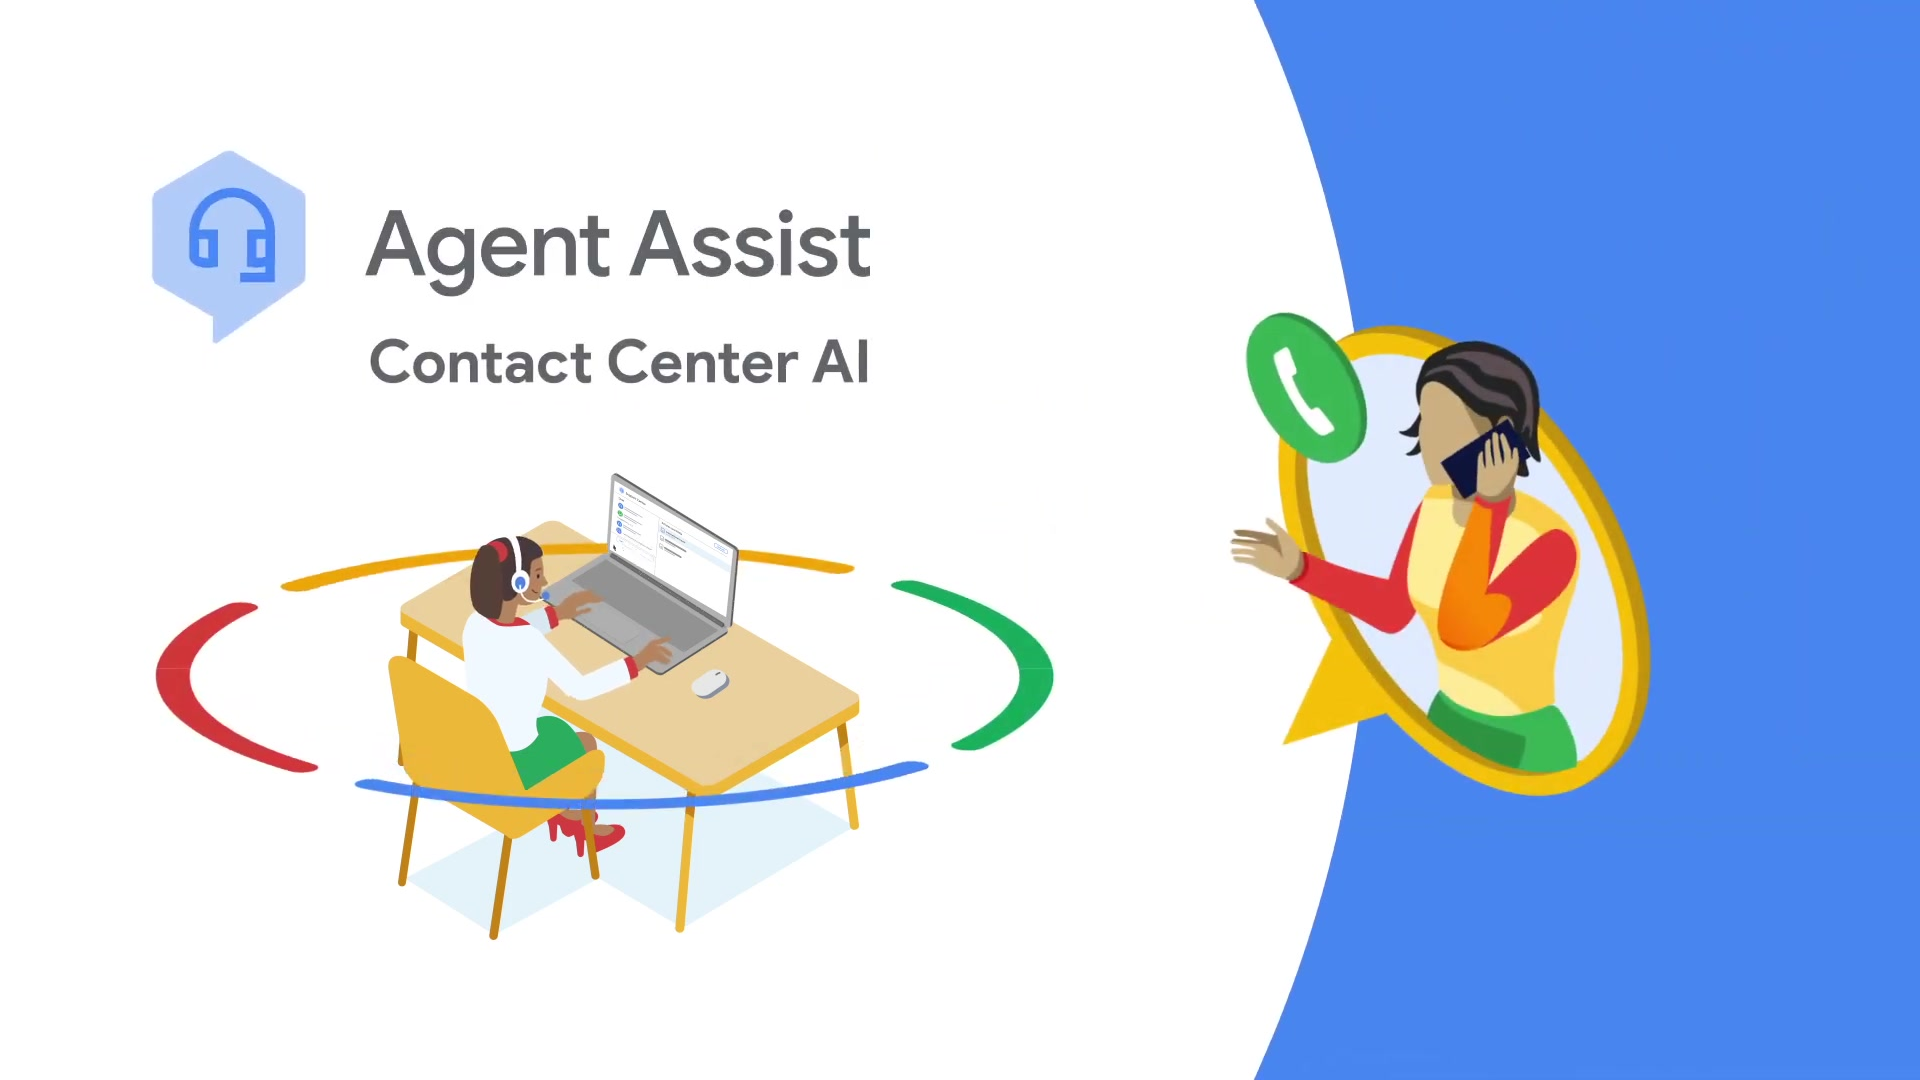
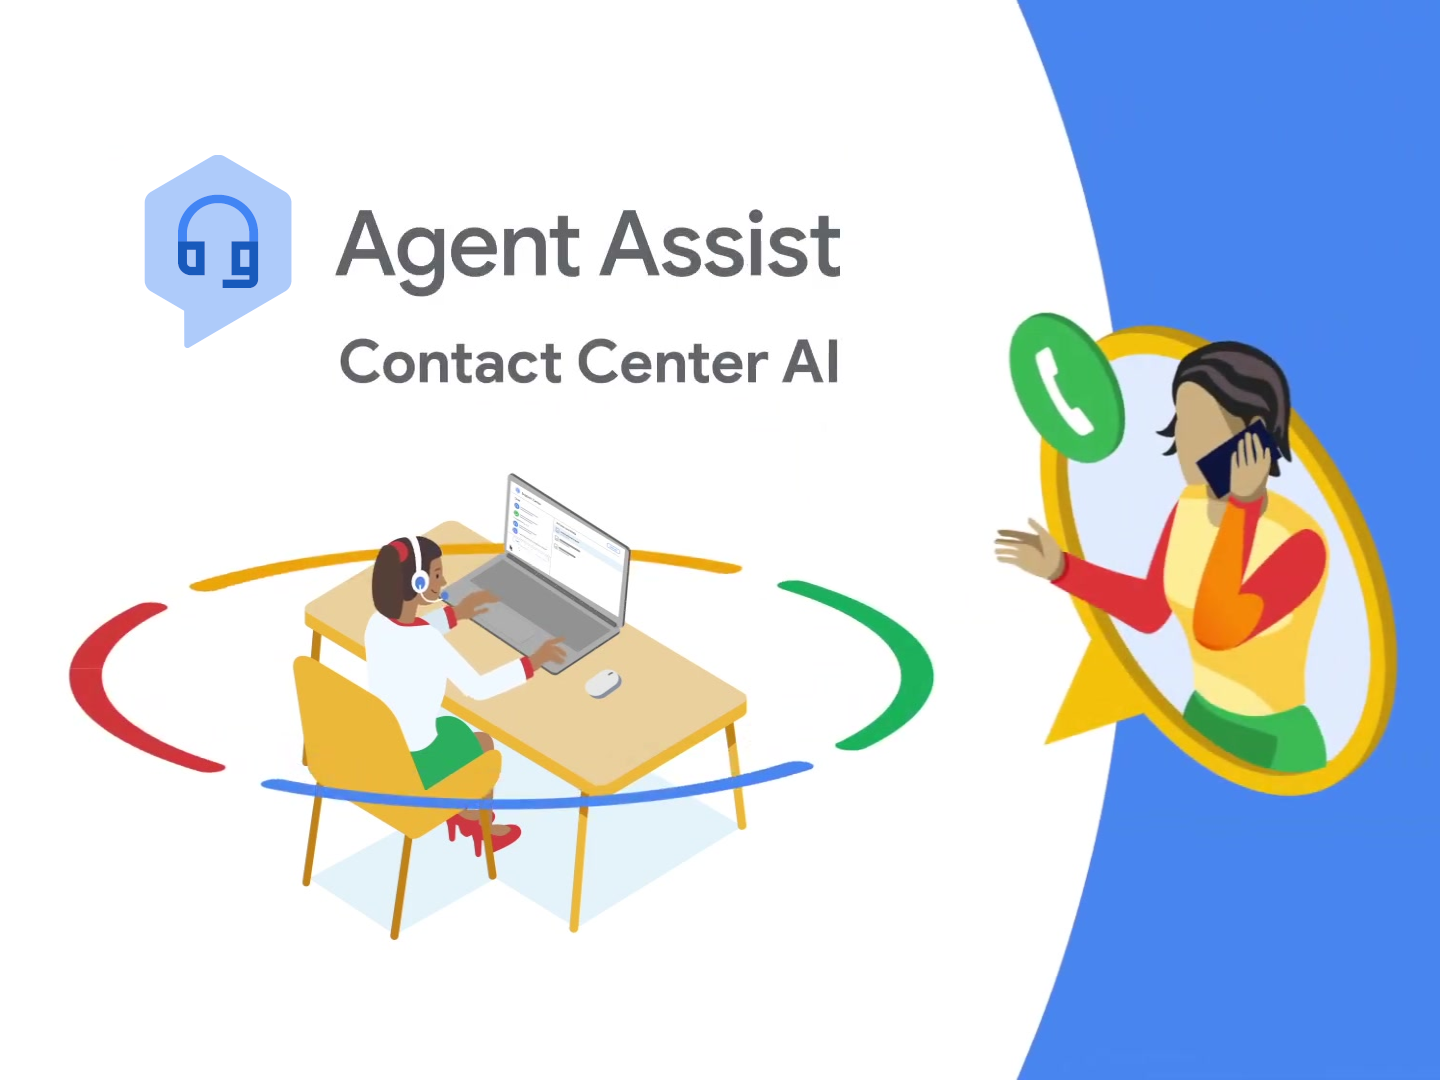
Change project image aspect ratio to 4 / 3

Changed region(s): [[0.0312, 0.0, 0.9688, 1.0], [0.0625, 0.1222, 0.5938, 0.3361], [0.1875, 0.3056, 0.5938, 0.3667]]

diff --git a/src/lib/components/ProjectCard.svelte b/src/lib/components/ProjectCard.svelte
@@ -48,7 +48,7 @@
     }
 
     &__image {
-      aspect-ratio: 16 / 9;
+      aspect-ratio: 4 / 3;
       border-radius: 0.5rem;
       object-fit: cover;
       width: 100%;
